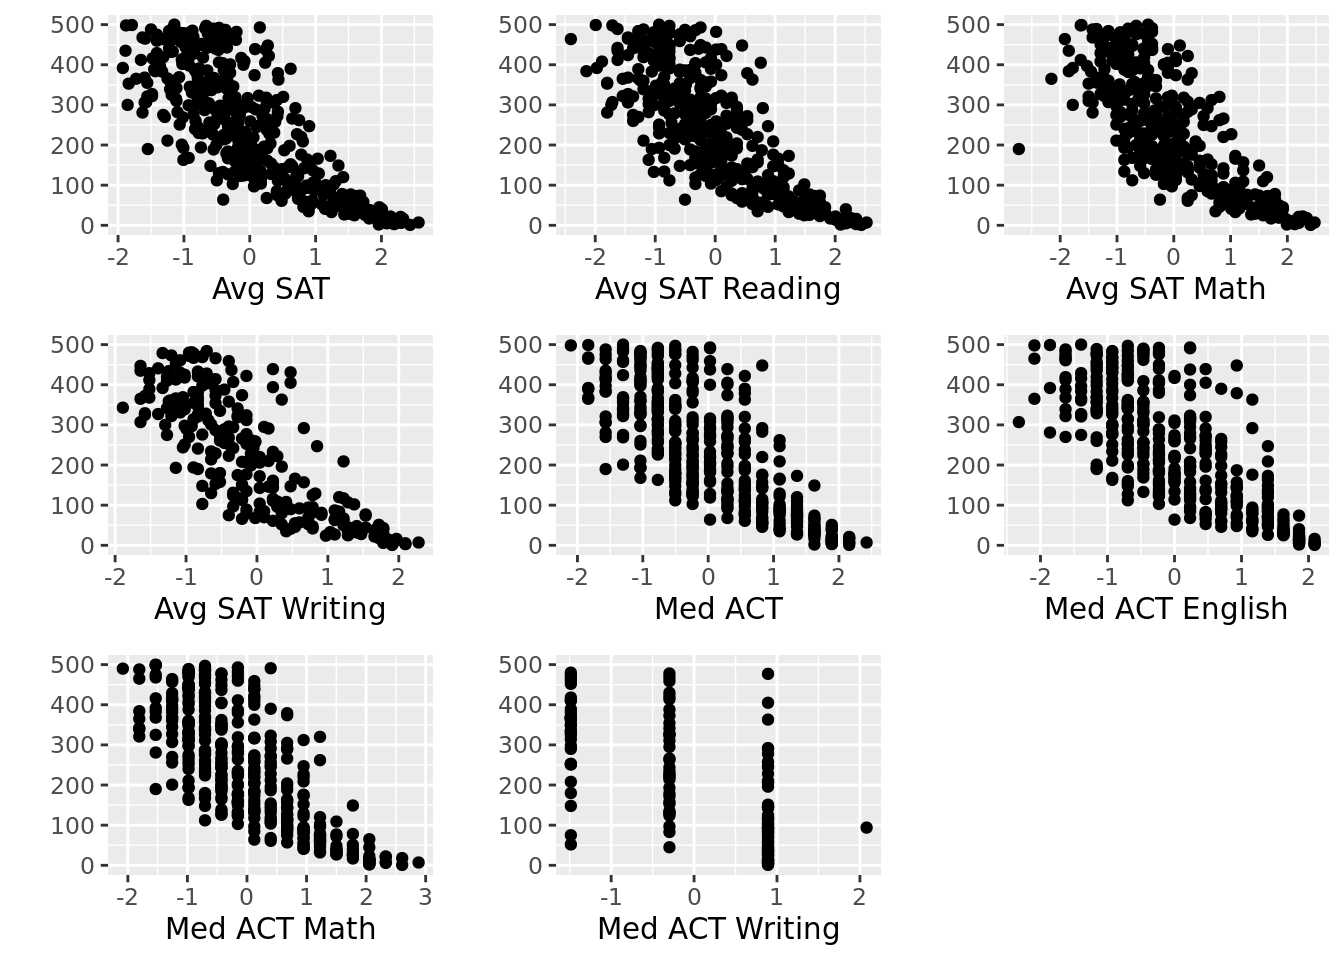
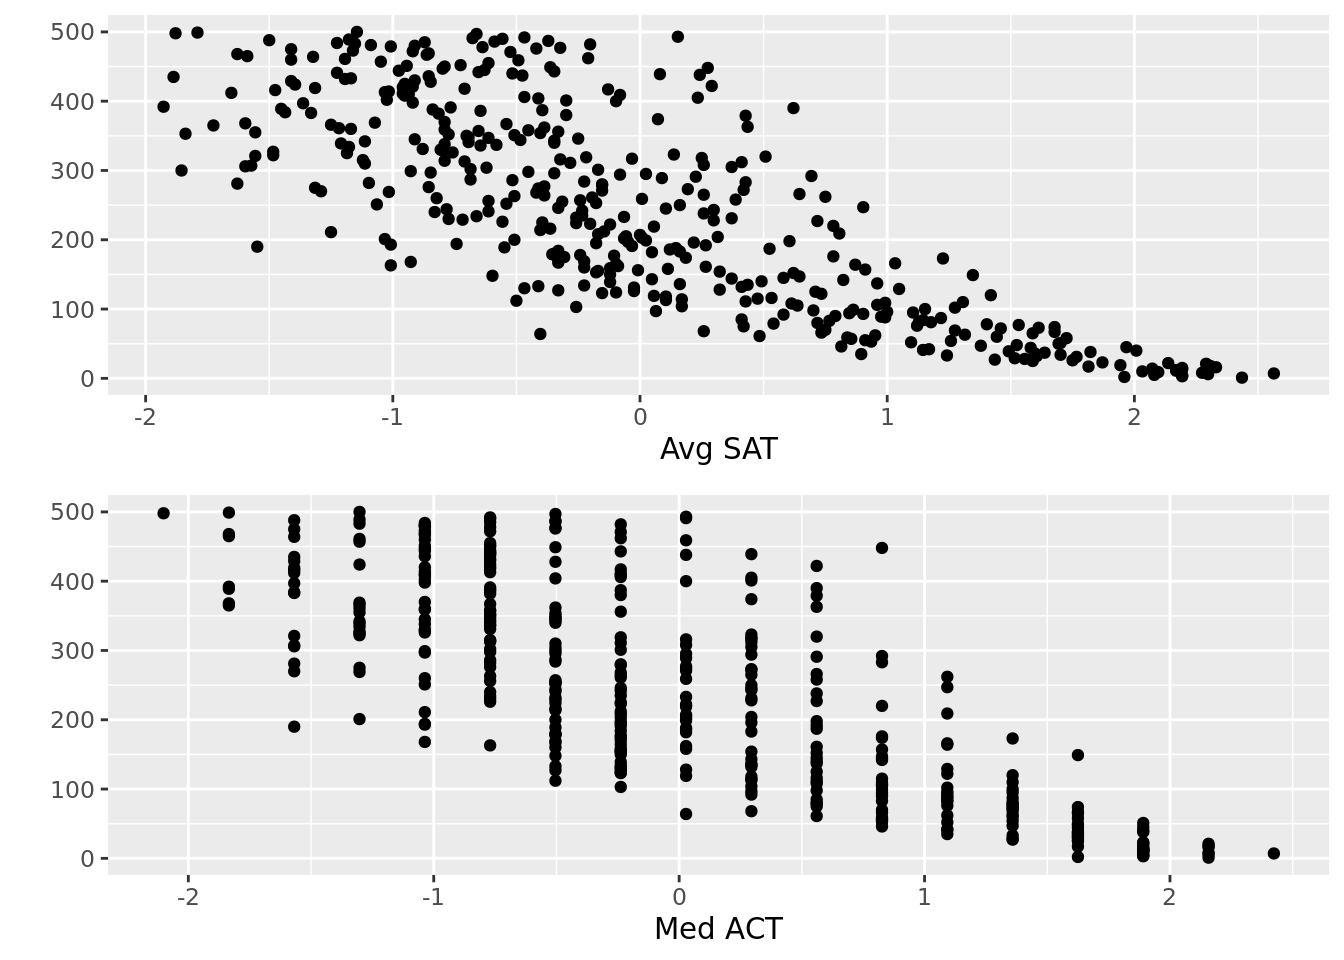
Edited question and hypothesis

diff --git a/docs/report.html b/docs/report.html
@@ -106,7 +106,7 @@ ul.task-list li input[type="checkbox"] {
   <li><a href="#introduction" id="toc-introduction" class="nav-link active" data-scroll-target="#introduction">Introduction</a>
   <ul class="collapse">
   <li><a href="#research-background" id="toc-research-background" class="nav-link" data-scroll-target="#research-background">Research Background</a></li>
-  <li><a href="#research-questions-and-hypothesis" id="toc-research-questions-and-hypothesis" class="nav-link" data-scroll-target="#research-questions-and-hypothesis">Research Questions and Hypothesis</a></li>
+  <li><a href="#research-question-and-hypothesis" id="toc-research-question-and-hypothesis" class="nav-link" data-scroll-target="#research-question-and-hypothesis">Research Question and Hypothesis</a></li>
   </ul></li>
   <li><a href="#data" id="toc-data" class="nav-link" data-scroll-target="#data">Data</a>
   <ul class="collapse">
@@ -166,12 +166,13 @@ ul.task-list li input[type="checkbox"] {
 </ol>
 <p>(2) https://www.bostonmagazine.com/news/2014/08/26/how-northeastern-gamed-the-college-rankings/</p>
 <p>These lists are important because students applying to college trust these rankings and weigh them into their college decisions. Due to the large impact that a college has on a student’s life, it is important to know where these rankings come from and what they actually measure. In this project, we will explore how influential different metrics are in determining a college’s ranking.</p>
-<p>In general, we want to examine how different variables affect a school’s ranking on the <strong>Niche College Ranking List</strong>. We plan to look at variables that are typically thought to influence school rank such as average SAT score and admission rate, but we also want to look at variables that aren’t typically thought of such as geographic region or endowment size.</p>
+<p>In general, we want to examine how different variables affect a school’s ranking on the <strong>Niche College Ranking List</strong> and determine which are most important to a high ranking. We plan to look at variables that are typically thought to influence school rank such as average SAT score and admission rate, but we also want to look at variables that aren’t typically thought of such as geographic region or endowment size.</p>
+<p>For the sake of clarity, when we say a “low rank,” we are referring to schools with a lower numerical rank, such as #1 and #2. When we say a “high rank,” we a referring to schools with a high numerical rank, such as #497 and #498.</p>
 </section>
-<section id="research-questions-and-hypothesis" class="level3">
-<h3 class="anchored" data-anchor-id="research-questions-and-hypothesis">Research Questions and Hypothesis</h3>
-<p><strong>Question:</strong> What variables (and what types of variables) have the greatest influence on a school’s place in the Niche College Ranking list?</p>
-<p><strong>Hypothesis:</strong> We hypothesize that: ACT/SAT test score, acceptance rate, and median earnings 10 years after graduation will have the biggest impact on college rank.</p>
+<section id="research-question-and-hypothesis" class="level3">
+<h3 class="anchored" data-anchor-id="research-question-and-hypothesis">Research Question and Hypothesis</h3>
+<p><strong>Question:</strong> Which characteristics of a university are most associated with rankings on the Niche College Ranking list? Of these characteristics, what is the relationship between high and low rank?</p>
+<p><strong>Hypothesis:</strong> We hypothesize that SAT/ACT scores, acceptance rate, and family income will have the strongest association with rank because since Niche’s audience is in large part students applying to college, we believe that they prioritize variables important in the college admissions process. Of these variables, we predict that SAT/ACT score will have strong negative relationship, acceptance rate will have a strong positive relationship, and family income will have a strong negative relationship with rank.</p>
 <p>In our project, we will join two data sets: The Niche College Rankings list and the US Department of Education College Scorecard</p>
 </section>
 </section>
@@ -192,7 +193,7 @@ ul.task-list li input[type="checkbox"] {
 <li><p>The second data set comes from the US Department of Education’s College Scorecard, which is an exhaustive summary of characteristics and statistics for all colleges and universities in the United States.</p>
 <p>(https://collegescorecard.ed.gov/data/)</p></li>
 <li><p>The College Scorecard is updated by the Education Department as it collects new data. Data used in the scorecard comes comes from data reported by the institutions, data on federal financial aid, data from taxes, and data from other federal agencies.</p></li>
-<li><p>There were 2,989 variables in the original data set, many of which we don’t need to answer our question, and since this data set was too large to load into RStudio, we used Excel to narrow this to 63 variables. There are 6681 observations in the data set, representing all of the colleges and universities in the United States.</p></li>
+<li><p>There were 2,989 variables in the original data set, many of which we don’t need to answer our question, and since this data set was too large to load into RStudio, we used Excel to narrow this to 31 variables. We chose any variables that we thought would have an impact on college rank, and excluded redundant ones like specific breaksdowns of test scores. There are 6681 observations in the data set, representing all of the colleges and universities in the United States.</p></li>
 </ul>
 </section>
 <section id="data-summary" class="level3">
@@ -408,45 +409,9 @@ ul.task-list li input[type="checkbox"] {
 <td></td>
 </tr>
 <tr class="odd">
-<td>SATVRMID</td>
-<td>Q</td>
-<td>Midpoint of SAT scores at the institution (critical reading)</td>
-<td></td>
-</tr>
-<tr class="even">
-<td>SATMTMID</td>
-<td>Q</td>
-<td>Midpoint of SAT scores at the institution (math)</td>
-<td></td>
-</tr>
-<tr class="odd">
-<td>SATWRMID</td>
-<td>Q</td>
-<td>Midpoint of SAT scores at the institution (writing)</td>
-<td></td>
-</tr>
-<tr class="even">
 <td>ACTCMMID</td>
 <td>Q</td>
 <td>Midpoint of the ACT cumulative score</td>
-<td></td>
-</tr>
-<tr class="odd">
-<td>ACTENMID</td>
-<td>Q</td>
-<td>Midpoint of the ACT english score</td>
-<td></td>
-</tr>
-<tr class="even">
-<td>ACTMTMID</td>
-<td>Q</td>
-<td>Midpoint of the ACT math score</td>
-<td></td>
-</tr>
-<tr class="odd">
-<td>ACTWRMID</td>
-<td>Q</td>
-<td>Midpoint of the ACT writing score</td>
 <td></td>
 </tr>
 </tbody>
@@ -1293,30 +1258,16 @@ ul.task-list li input[type="checkbox"] {
 <div class="cell-output-display">
 <table class="table table-sm table-striped">
 <colgroup>
-<col style="width: 6%">
-<col style="width: 0%">
-<col style="width: 2%">
-<col style="width: 3%">
-<col style="width: 9%">
-<col style="width: 15%">
+<col style="width: 7%">
 <col style="width: 1%">
 <col style="width: 2%">
+<col style="width: 4%">
+<col style="width: 10%">
+<col style="width: 17%">
 <col style="width: 2%">
 <col style="width: 2%">
 <col style="width: 2%">
 <col style="width: 2%">
-<col style="width: 2%">
-<col style="width: 2%">
-<col style="width: 1%">
-<col style="width: 1%">
-<col style="width: 2%">
-<col style="width: 1%">
-<col style="width: 2%">
-<col style="width: 1%">
-<col style="width: 1%">
-<col style="width: 1%">
-<col style="width: 2%">
-<col style="width: 1%">
 <col style="width: 2%">
 <col style="width: 2%">
 <col style="width: 2%">
@@ -1325,11 +1276,19 @@ ul.task-list li input[type="checkbox"] {
 <col style="width: 2%">
 <col style="width: 2%">
 <col style="width: 1%">
+<col style="width: 2%">
 <col style="width: 1%">
 <col style="width: 1%">
+<col style="width: 2%">
+<col style="width: 2%">
 <col style="width: 1%">
-<col style="width: 1%">
-<col style="width: 1%">
+<col style="width: 2%">
+<col style="width: 2%">
+<col style="width: 2%">
+<col style="width: 2%">
+<col style="width: 2%">
+<col style="width: 2%">
+<col style="width: 2%">
 <col style="width: 1%">
 <col style="width: 1%">
 </colgroup>
@@ -1367,13 +1326,7 @@ ul.task-list li input[type="checkbox"] {
 <th style="text-align: right;">MD_FAMINC</th>
 <th style="text-align: right;">ENDOWBEGIN</th>
 <th style="text-align: right;">SAT_AVG</th>
-<th style="text-align: right;">SATVRMID</th>
-<th style="text-align: right;">SATMTMID</th>
-<th style="text-align: right;">SATWRMID</th>
 <th style="text-align: right;">ACTCMMID</th>
-<th style="text-align: right;">ACTENMID</th>
-<th style="text-align: right;">ACTMTMID</th>
-<th style="text-align: right;">ACTWRMID</th>
 </tr>
 </thead>
 <tbody>
@@ -1410,13 +1363,7 @@ ul.task-list li input[type="checkbox"] {
 <td style="text-align: right;">-0.3635658</td>
 <td style="text-align: right;">4.8230767</td>
 <td style="text-align: right;">2.435243</td>
-<td style="text-align: right;">2.437355</td>
-<td style="text-align: right;">2.409834</td>
-<td style="text-align: right;">1.906164</td>
 <td style="text-align: right;">2.157264</td>
-<td style="text-align: right;">2.090363</td>
-<td style="text-align: right;">2.605611</td>
-<td style="text-align: right;">0.8917158</td>
 </tr>
 <tr class="even">
 <td style="text-align: left;">Stanford University</td>
@@ -1451,13 +1398,7 @@ ul.task-list li input[type="checkbox"] {
 <td style="text-align: right;">-0.7457627</td>
 <td style="text-align: right;">7.8526584</td>
 <td style="text-align: right;">1.959465</td>
-<td style="text-align: right;">2.091365</td>
-<td style="text-align: right;">1.990986</td>
-<td style="text-align: right;">1.906164</td>
 <td style="text-align: right;">1.625002</td>
-<td style="text-align: right;">1.858101</td>
-<td style="text-align: right;">2.053884</td>
-<td style="text-align: right;">NA</td>
 </tr>
 <tr class="odd">
 <td style="text-align: left;">Harvard University</td>
@@ -1492,13 +1433,7 @@ ul.task-list li input[type="checkbox"] {
 <td style="text-align: right;">-1.2442952</td>
 <td style="text-align: right;">11.7606764</td>
 <td style="text-align: right;">2.193322</td>
-<td style="text-align: right;">2.350857</td>
-<td style="text-align: right;">2.130602</td>
-<td style="text-align: right;">2.092902</td>
 <td style="text-align: right;">1.891133</td>
-<td style="text-align: right;">2.090363</td>
-<td style="text-align: right;">2.053884</td>
-<td style="text-align: right;">0.8917158</td>
 </tr>
 <tr class="even">
 <td style="text-align: left;">Yale University</td>
@@ -1533,13 +1468,7 @@ ul.task-list li input[type="checkbox"] {
 <td style="text-align: right;">-0.7812391</td>
 <td style="text-align: right;">8.6251074</td>
 <td style="text-align: right;">2.193322</td>
-<td style="text-align: right;">2.350857</td>
-<td style="text-align: right;">2.130602</td>
-<td style="text-align: right;">2.092902</td>
 <td style="text-align: right;">1.891133</td>
-<td style="text-align: right;">1.858101</td>
-<td style="text-align: right;">2.053884</td>
-<td style="text-align: right;">NA</td>
 </tr>
 <tr class="odd">
 <td style="text-align: left;">Princeton University</td>
@@ -1574,13 +1503,7 @@ ul.task-list li input[type="checkbox"] {
 <td style="text-align: right;">-1.0762267</td>
 <td style="text-align: right;">7.2393605</td>
 <td style="text-align: right;">2.080425</td>
-<td style="text-align: right;">2.177863</td>
-<td style="text-align: right;">2.130602</td>
-<td style="text-align: right;">2.092902</td>
 <td style="text-align: right;">1.891133</td>
-<td style="text-align: right;">1.858101</td>
-<td style="text-align: right;">2.053884</td>
-<td style="text-align: right;">0.8917158</td>
 </tr>
 <tr class="even">
 <td style="text-align: left;">Rice University</td>
@@ -1615,13 +1538,7 @@ ul.task-list li input[type="checkbox"] {
 <td style="text-align: right;">0.1093542</td>
 <td style="text-align: right;">1.5921875</td>
 <td style="text-align: right;">2.298154</td>
-<td style="text-align: right;">2.177863</td>
-<td style="text-align: right;">2.200410</td>
-<td style="text-align: right;">1.781672</td>
 <td style="text-align: right;">2.157264</td>
-<td style="text-align: right;">1.858101</td>
-<td style="text-align: right;">2.329747</td>
-<td style="text-align: right;">0.8917158</td>
 </tr>
 <tr class="odd">
 <td style="text-align: left;">California Institute of Technology</td>
@@ -1656,13 +1573,7 @@ ul.task-list li input[type="checkbox"] {
 <td style="text-align: right;">-0.7455087</td>
 <td style="text-align: right;">0.5526454</td>
 <td style="text-align: right;">2.564268</td>
-<td style="text-align: right;">2.523852</td>
-<td style="text-align: right;">2.479642</td>
-<td style="text-align: right;">2.279641</td>
 <td style="text-align: right;">2.423395</td>
-<td style="text-align: right;">2.090363</td>
-<td style="text-align: right;">2.881474</td>
-<td style="text-align: right;">0.8917158</td>
 </tr>
 <tr class="even">
 <td style="text-align: left;">Duke University</td>
@@ -1697,13 +1608,7 @@ ul.task-list li input[type="checkbox"] {
 <td style="text-align: right;">-0.0380126</td>
 <td style="text-align: right;">2.2133492</td>
 <td style="text-align: right;">2.273962</td>
-<td style="text-align: right;">2.264360</td>
-<td style="text-align: right;">2.200410</td>
-<td style="text-align: right;">1.906164</td>
 <td style="text-align: right;">2.157264</td>
-<td style="text-align: right;">2.090363</td>
-<td style="text-align: right;">2.329747</td>
-<td style="text-align: right;">0.8917158</td>
 </tr>
 <tr class="odd">
 <td style="text-align: left;">Brown University</td>
@@ -1738,13 +1643,7 @@ ul.task-list li input[type="checkbox"] {
 <td style="text-align: right;">0.8556924</td>
 <td style="text-align: right;">0.8449944</td>
 <td style="text-align: right;">2.096553</td>
-<td style="text-align: right;">2.177863</td>
-<td style="text-align: right;">1.990986</td>
-<td style="text-align: right;">1.906164</td>
 <td style="text-align: right;">1.891133</td>
-<td style="text-align: right;">1.858101</td>
-<td style="text-align: right;">2.053884</td>
-<td style="text-align: right;">NA</td>
 </tr>
 <tr class="even">
 <td style="text-align: left;">Dartmouth College</td>
@@ -1779,13 +1678,7 @@ ul.task-list li input[type="checkbox"] {
 <td style="text-align: right;">0.2539058</td>
 <td style="text-align: right;">1.3633003</td>
 <td style="text-align: right;">2.032041</td>
-<td style="text-align: right;">2.177863</td>
-<td style="text-align: right;">1.990986</td>
-<td style="text-align: right;">1.781672</td>
 <td style="text-align: right;">1.891133</td>
-<td style="text-align: right;">1.858101</td>
-<td style="text-align: right;">2.053884</td>
-<td style="text-align: right;">NA</td>
 </tr>
 </tbody>
 </table>
